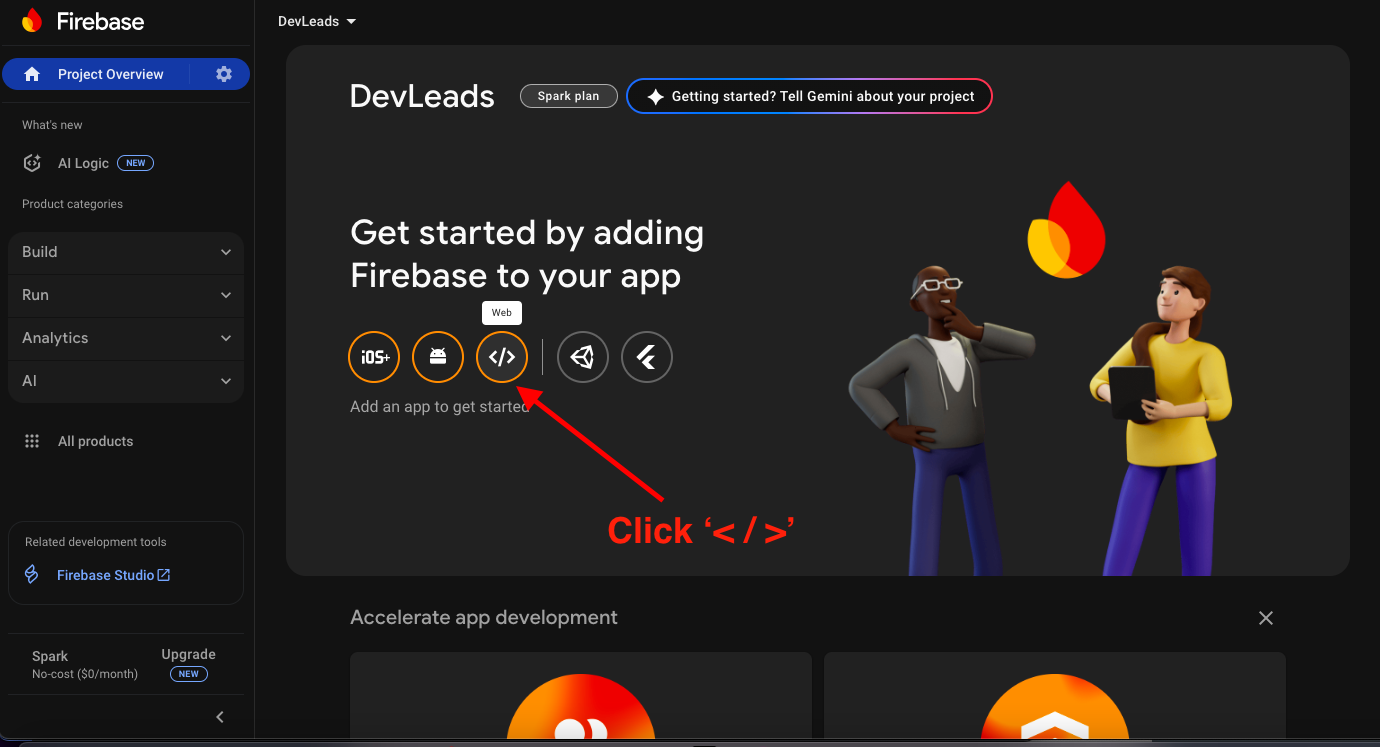
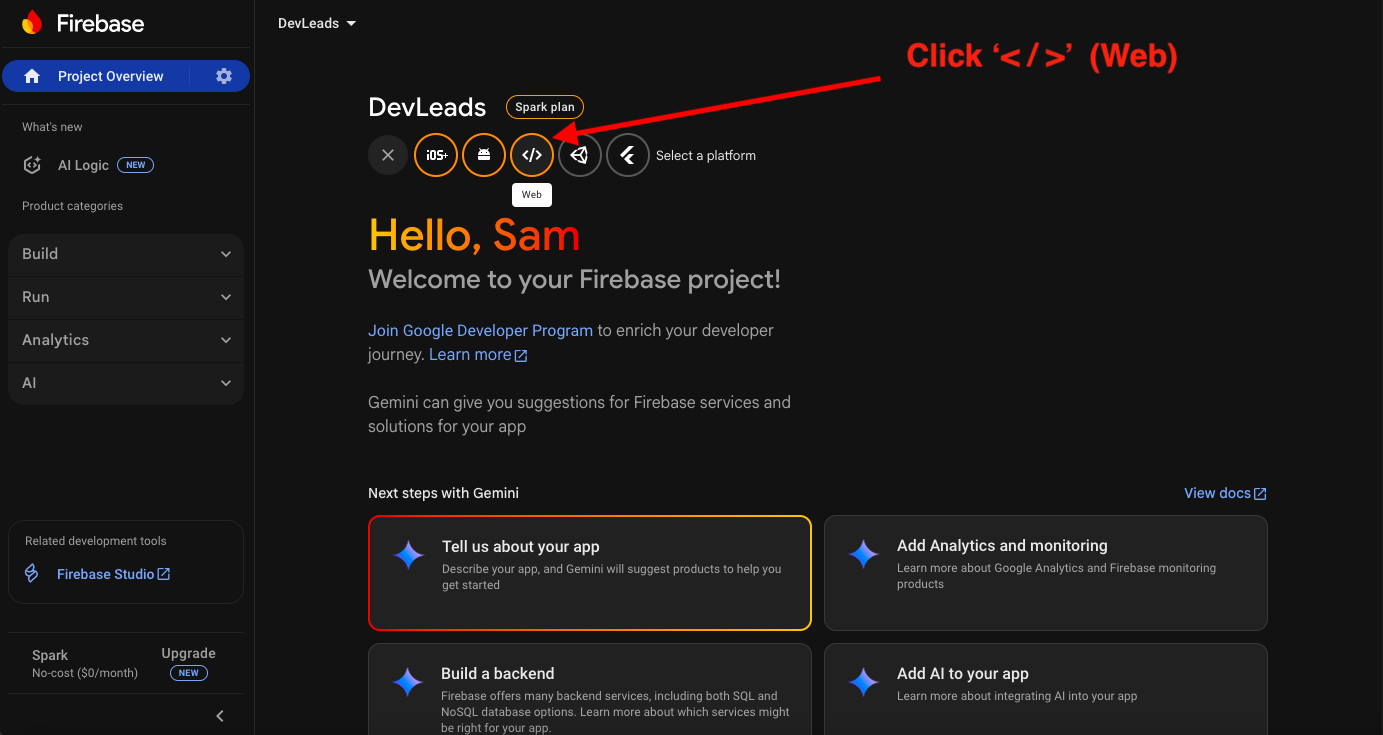
updated README.md, SETUP-GUIDE.md, .env.example, and assets

diff --git a/docs/SETUP-GUIDE.md b/docs/SETUP-GUIDE.md
@@ -105,7 +105,6 @@ Before you begin, ensure you have:
 
 - **Username**: Choose a username
 - **Password**: Use the auto-generated password or create your own
-- **⚠ Important**: Copy and save this password - you'll need it for your connection string
 - Click **"Create Database User"**
 
 8. **Your cluster will be created** (this takes 1-3 minutes)
@@ -131,14 +130,17 @@ Before you begin, ensure you have:
 
 4. **Copy and save the connection string**  you'll need this for your `.env` file
    - The connection string format will be: `mongodb+srv://username:password@cluster.mongodb.net/`
-   - Save this complete connection string for later use in `.env`
+   - Save this complete connection string somewhere secure for later use in `.env`
    - Click "Done" button
 
 ### Step 3: Configure Network Access
 
-1. **Go to Network Access** in the left sidebar
+1. **Go to Database & Network Access** in the left sidebar
 
 ![Network Access tab](../dashboard/assets/devleads_setup_images/mongodb/MongoDB_network_access1.png)
+
+2. **Click IP Access List**
+![Network Access tab](../dashboard/assets/devleads_setup_images/mongodb/MongoDB_network_access2.png)
 
 2. **Add IP Address**:
 
@@ -179,21 +181,30 @@ Before you begin, ensure you have:
 
 ### Step 2: Get Web App Configuration
 
-1. **Project Settings** (Get Started By Adding Firebase to Your App) → **Web '</>'**
+1. **Add App**
 
-![Get started by adding firebase to your app](../dashboard/assets/devleads_setup_images/firebase/firebase_choose_web.png)
+   - Click "+ Add app"
 
-2. **Register app**:
+![Add app](../dashboard/assets/devleads_setup_images/firebase/firebase_add_app.png)
+
+2. **Choose Web**
+   - Click "< / > (Web)"
+
+![Choose web](../dashboard/assets/devleads_setup_images/firebase/firebase_choose_web.png)
+
+3. **Register app**:
 
    - Pick an App nickname: e.g. "DevLeads Web"
    - Don't check hosting checkbox
 
    ![Register app](../dashboard/assets/devleads_setup_images/firebase/firebase_register_app.png)
 
-3. **Copy the config object**
+4. **Copy the config object**
 
    - Copy the Firebase configuration public facing keys locally
-     (you'll need this later for `dashboard/js/authApi.js`):
+     (you'll need this later for `dashboard/js/authApi.js`)
+
+   - ⚠ Important: Do not run NPM install firebase in the console.  Firebase is already in the project's package.json file.
 
    ```javascript
    // Your web app's Firebase configuration
@@ -209,16 +220,14 @@ Before you begin, ensure you have:
 
    ![Copy public keys](../dashboard/assets/devleads_setup_images/firebase/firebase_copy_pub_keys.png)
 
-4. **Continue to console**
+5. **Continue to console**
    - Click the 'Continue to console' button
 
 ### Step 3: Setup Authentication
 
-1. **Go to Authentication** → **Get Started**
+1. **Select 'Build'** → **Click 'Authentication'**
 
 ![Click Authentication](../dashboard/assets/devleads_setup_images/firebase/firebase_click_auth.png)
-
-![Get Started with Authentication](../dashboard/assets/devleads_setup_images/firebase/firebase_auth_get_started.png)
 
 2. **Sign-in method** tab → **Email/Password**:
    - Enable **Email/Password**
@@ -324,7 +333,8 @@ The `EMAIL_PASS` field is where you put your email account's authentication cred
 EMAIL_HOST=smtp.gmail.com
 EMAIL_PORT=587
 EMAIL_USER=your-gmail@gmail.com
-EMAIL_PASS=your-16-character-app-password
+# EMAIL_PASS value should be wrapped in quotes
+EMAIL_PASS="your-16-character-app-password"
 ```
 
 **Outlook (for .env):**
@@ -333,7 +343,8 @@ EMAIL_PASS=your-16-character-app-password
 EMAIL_HOST=smtp-mail.outlook.com
 EMAIL_PORT=587
 EMAIL_USER=your-outlook@outlook.com
-EMAIL_PASS=your-app-password
+# EMAIL_PASS value should be wrapped in quotes
+EMAIL_PASS="your-app-password"
 ```
 
 ### Finding Your SMTP Settings
@@ -346,12 +357,7 @@ EMAIL_PASS=your-app-password
    - SMTP Server Address
    - Port Number (usually 587 or 465)
    - Whether SSL/TLS is required
-
-#### Common Providers' Documentation
-
-- **Gmail**: Google Workspace SMTP Settings
-- **Outlook/Office 365**: Microsoft SMTP Configuration
-- **Other Providers**: Check their support websites
+4. GMAIL and Outlook use port 587
 
 ---
 
@@ -367,41 +373,7 @@ git clone <your-repo-url>
 cd devleads
 ```
 
-### Step 2: Set Up Git Protection
-
-**Important:** Create a `.gitignore` file in your project root to protect sensitive data:
-
-1. **Create a new file** called `.gitignore` in the project root directory
-2. **Copy and paste** the following content into the file:
-
-```
-# Dependency directories
-node_modules/
-/server/node_modules/
-
-# Environment variables
-/.env
-
-# Logs
-npm-debug.log*
-yarn-debug.log*
-yarn-error.log*
-
-# Mac system files
-.DS_Store
-
-# Editor directories and files
-.idea/
-.vscode/
-*.swp
-*.swo
-```
-
-3. **Save the file**
-
-This prevents accidentally committing sensitive environment variables, dependencies, and system files to your repository.
-
-### Step 3: Install Dependencies
+### Step 2: Install Dependencies
 
 **In your terminal/command prompt**, run:
 
@@ -438,6 +410,7 @@ PORT=5000
 NODE_ENV=development
 
 # ===== FIREBASE ADMIN SDK =====
+# Only the private key value should be wrapped in quotes
 FIREBASE_PROJECT_ID=your-project-id
 FIREBASE_PRIVATE_KEY_ID=your-private-key-id
 FIREBASE_PRIVATE_KEY="-----BEGIN PRIVATE KEY-----\nYour-Private-Key-Here\n-----END PRIVATE KEY-----\n"
@@ -453,6 +426,7 @@ FIREBASE_UNIVERSE_DOMAIN=googleapis.com
 ADMIN_EMAIL=your-admin-email@example.com
 EMAIL_FROM=your-sending-email@example.com
 EMAIL_USER=your-sending-email@example.com
+# EMAIL_PASS value should be wrapped in quotes
 EMAIL_PASS=your-app-specific-password
 EMAIL_HOST=smtp.gmail.com
 EMAIL_PORT=587
@@ -464,6 +438,7 @@ EMAIL_SECURE=false
 - ⚠ Never commit the `.env` file to version control
 - **FIREBASE_PRIVATE_KEY**: Copy the entire private key value from the JSON file, including the quotation marks and everything between them (e.g., `"-----BEGIN PRIVATE KEY-----\nYour-Key-Here\n-----END PRIVATE KEY-----\n"`)
 - The `FIREBASE_PRIVATE_KEY` should include the `\n` characters for line breaks
+- The `EMAIL_PASS` value should be wrapped in quotation marks
 - Email settings are optional - the app works without them but it is highly recommended
 
 ---
@@ -632,6 +607,9 @@ git commit -m "Initial DevLeads setup with custom configuration
 - Added web forms integration (if applicable)
 - Ready for deployment"
 
+# Rename the default branch to "main"
+git branch -M main
+
 # Push to your repository
 git push -u origin main
 ```
@@ -650,9 +628,10 @@ git push -u origin main
 
 ### Recommended Platforms
 
-#### Render (Recommended)
+#### [Render](https://render.com) (Recommended)
 
-1. **Connect GitHub repository** to Render
+1. **Create a new web service**
+1. **Connect your GitHub repository** to Render
 2. **CRITICAL: Choose Docker Environment**
    - When creating the web service, select **"Docker"** as the environment
    - ⚠ **Do NOT choose Node.js** - Business Finder requires Chrome (only available in Docker)
@@ -685,11 +664,13 @@ git push -u origin main
 
 **Important Render Considerations:**
 
-**RECOMMENDED: Upgrade to a paid plan for persistent storage and no sleep mode.**
+**RECOMMENDED: Upgrade to a paid 'Starter Plan' for persistent storage and no sleep mode.**
+- 512MB of RAM
+- 0.5 CPU
+- Email notifications require outbound SMTP which is **ONLY AVAILABLE** with on paid Render plans
 
 **Free Tier Limitations:**
-
-- Email notifications require outbound SMTP which is **ONLY AVAILABLE** with on paid Render plans
+- No SMTP access
 - Apps sleep after 15 minutes of inactivity (causes ~50 second cold start)
 - 750 hours/month of runtime total for ALL projects, not EACH
 - No persistent disk storage on free tier

diff --git a/README.md b/README.md
@@ -110,7 +110,7 @@ DevLeads is a **self-hosted lead management system** specifically designed for f
 - **Consultants** - Professional client management
 - **Anyone** wanting to own their business data
 
-**Estimated Setup Time**: 1-2 hours for complete setup, from start to live, deployed web app.
+**Estimated Setup Time**: 30min - 1hr for complete setup, from start to live, deployed web app.
 
 ## Security Disclaimer
 
